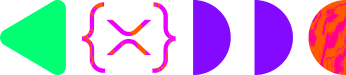
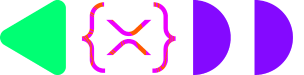
center

diff --git a/README.md b/README.md
@@ -77,7 +77,7 @@ An overview of how it works, getting started, creating a wallet, and making your
 -   All projects must submit transactions to the L1.
 -  Using a sidechain such as [Xahau](https://xahau.network/) or the [XRPL EVM Sidechain](https://docs.xrplevm.org/) is allowed, but it may cost you a few points in the final scoring.
 
-<div align="left">
+<div align="center">
 
 ![](./img/2.png)
 
